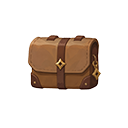
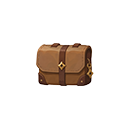
Adjusted the visuals to be more aesthetically pleasing

Changed region(s): [[0.2188, 0.25, 0.7812, 0.7188]]

diff --git a/UI/NLoadoutPanel.cs b/UI/NLoadoutPanel.cs
@@ -59,7 +59,7 @@ namespace  Loadout.UI;
 public partial class NLoadoutPanel : Panel
 {
 	private const int MaxLoadoutItemInitAttempts = 120;
-	private static bool DebugForceShownExpanded = true;
+	private static bool DebugForceShownExpanded = false;
 	private const string LoadoutBagTargetDropdownName = "LoadoutBagTargetDropdown";
 	private const string LoadoutCauldronTargetKey = "loadout_cauldron";
 	private const string LoadoutCauldronTargetDropdownName = "LoadoutCauldronTargetDropdown";

diff --git a/UI/NLoadoutPanelButton.cs b/UI/NLoadoutPanelButton.cs
@@ -67,6 +67,7 @@ public partial class NLoadoutPanelButton : Button
 		_arrowImage = GetNodeOrNull<TextureRect>("ArrowImage") ?? CreateTextureRect("ArrowImage", false);
 
 		_tabImage.Texture = LoadPanelTexture(TabTextureFileName);
+		_tabImage.StretchMode = TextureRect.StretchModeEnum.Scale;
 		_arrowImage.Texture = LoadPanelTexture(ArrowTextureFileName);
 		_tabImage.Material = null;
 		_arrowImage.Material = null;
@@ -123,6 +124,7 @@ public partial class NLoadoutPanelButton : Button
 	{
 		if (_tabImage is not null && IsInstanceValid(_tabImage))
 		{
+			_tabImage.Position = Vector2.Zero;
 			_tabImage.Size = Size;
 			_tabImage.PivotOffset = Size * 0.5f;
 		}